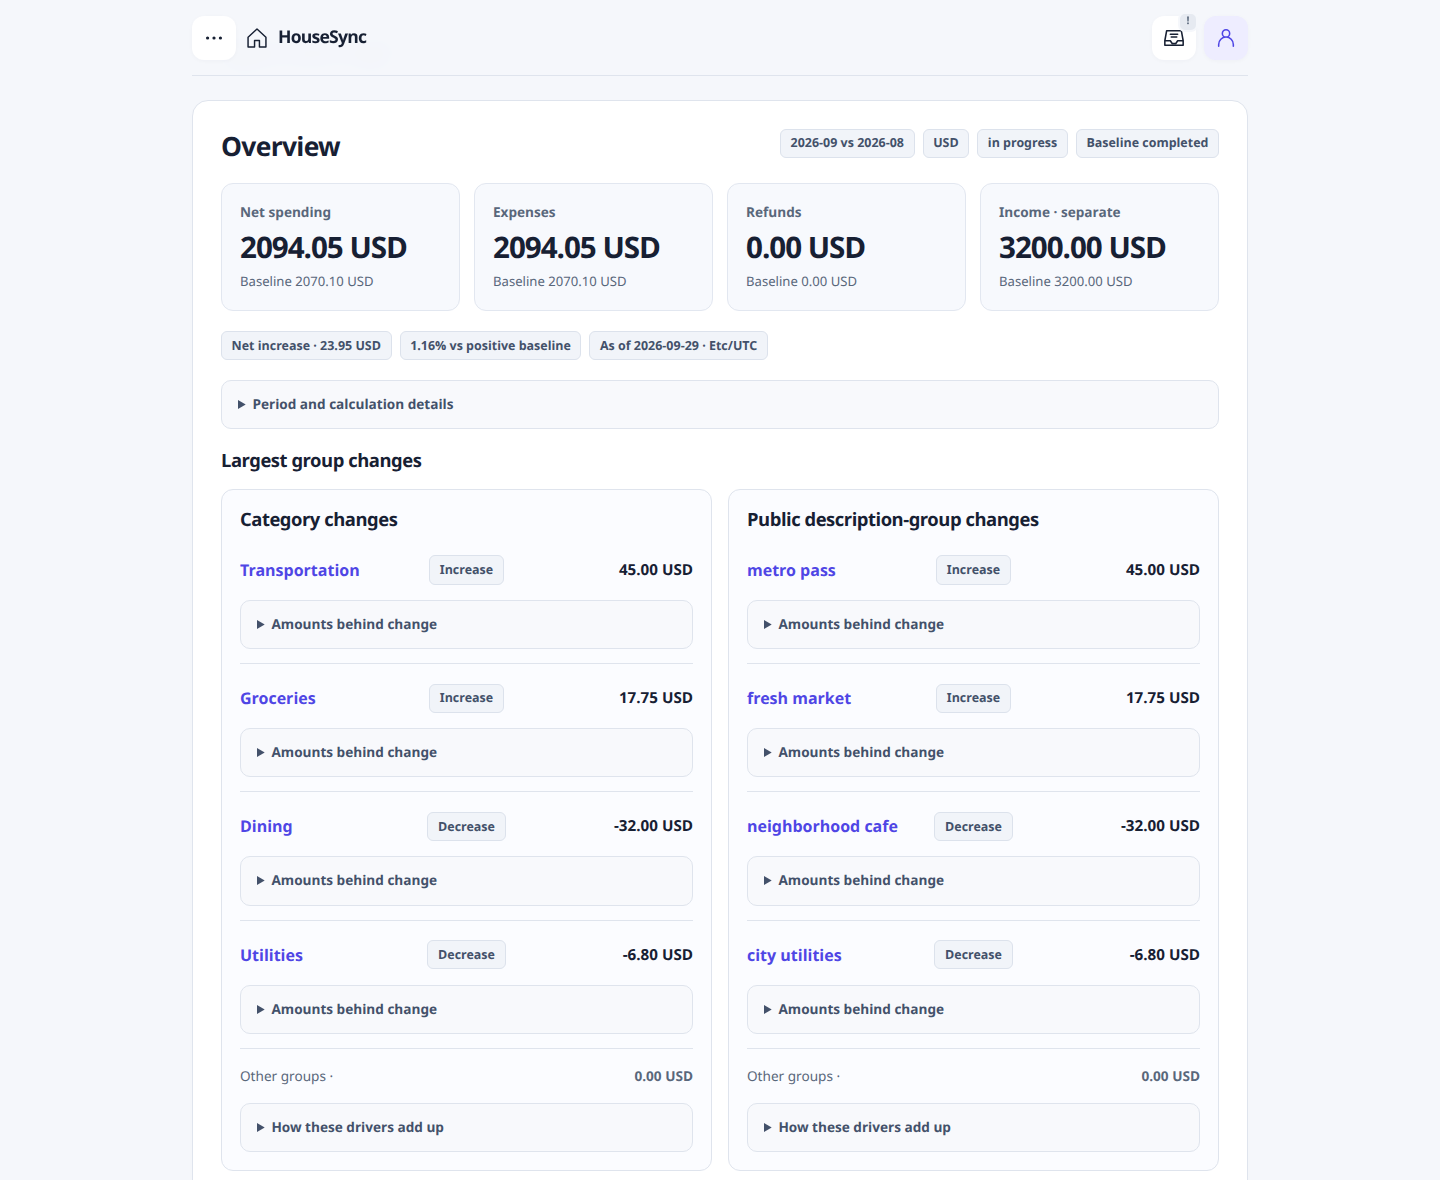
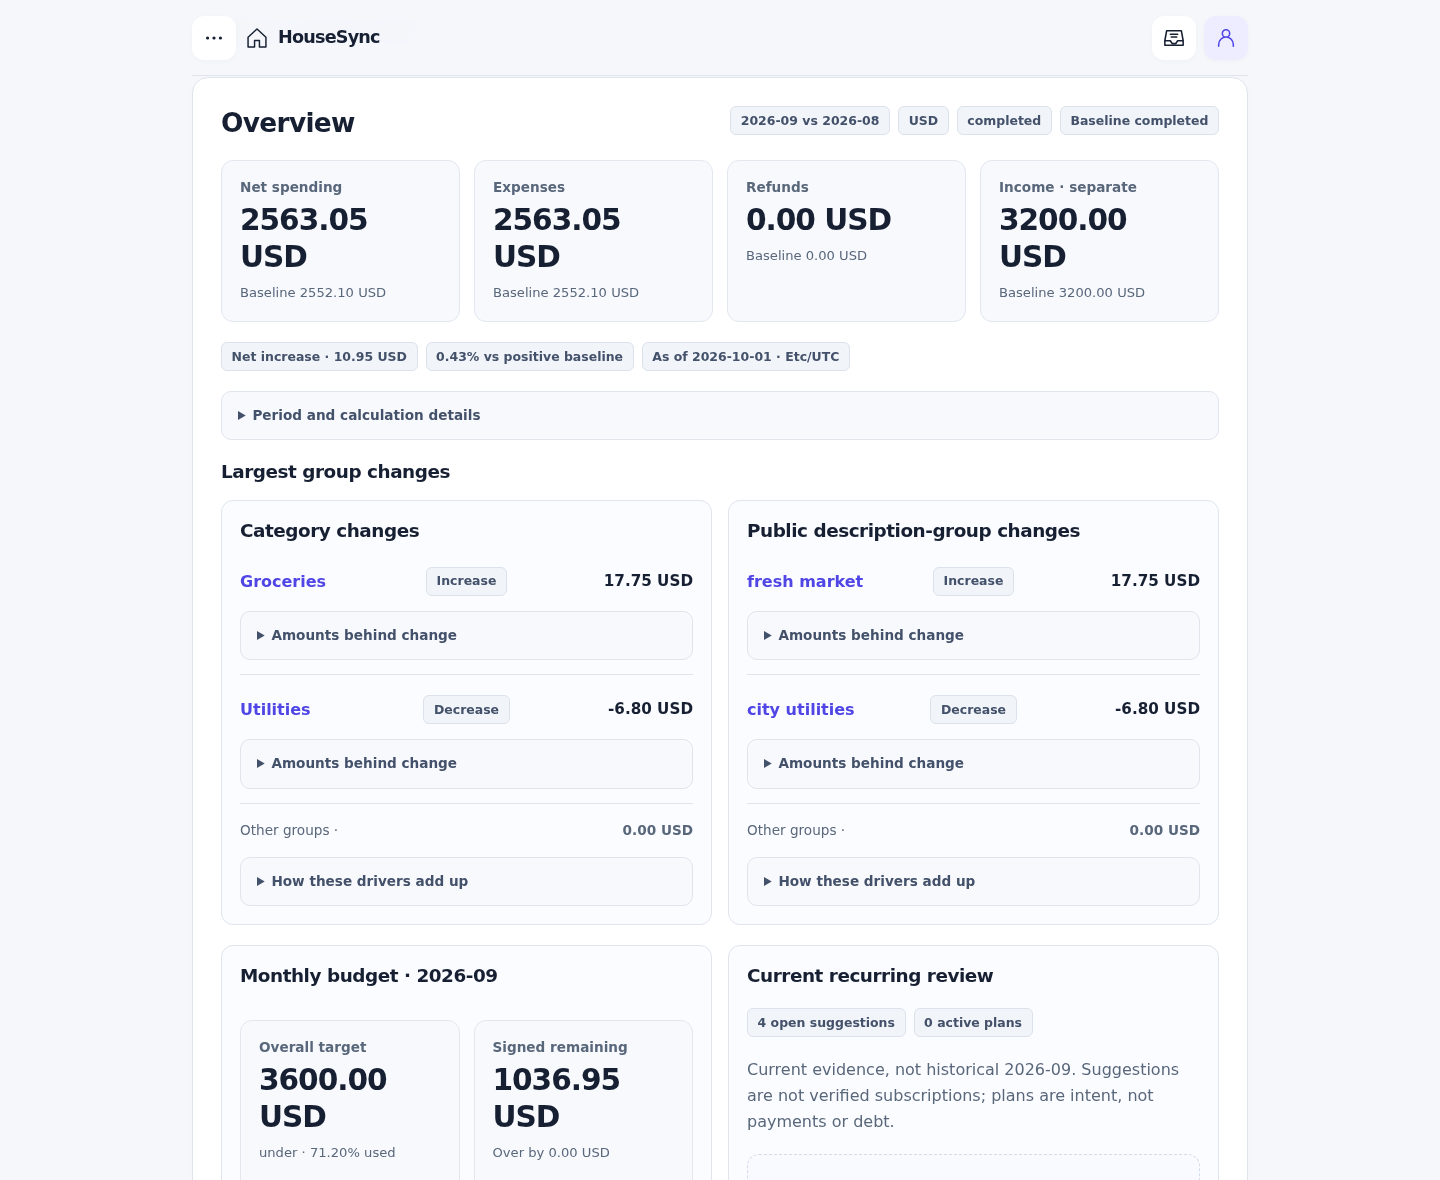
docs: showcase bank linking and the shared ledger
Reframe the README around the shared household ledger, lead with the Plaid Sandbox bank-activity inbox and the mobile household feed, add a collapsed gallery of 14 more captures and a Plaid Sandbox quick start. Rewrite the synthetic walkthrough for the two-member dataset with a linked test bank.

diff --git a/README.md b/README.md
@@ -3,28 +3,73 @@
 [![HouseSync checks](https://github.com/lavinhoque33/HouseSync/actions/workflows/ci.yml/badge.svg)](https://github.com/lavinhoque33/HouseSync/actions/workflows/ci.yml)
 [![License: MIT](https://img.shields.io/badge/license-MIT-blue.svg)](LICENSE)
 
-**Understand shared spending without making every account shared.** HouseSync is a mobile-first household finance application. Members record private financial activity, deliberately disclose selected transactions, split shared expenses exactly, and explore source-linked spending insights. A household owner does not automatically see another member's accounts. HouseSync records external repayments and suggests settlements; it does **not** move money or infer bank balances.
+**A shared household ledger that keeps private money private.** Each member links their own bank accounts through Plaid or records entries by hand. Accounts and transactions stay private to their owner; a member discloses exactly the entries the household should share, and those are split exactly, tracked as per-member balances and settled through recorded repayments. HouseSync keeps the ledger; it never moves money or infers bank balances.
 
-![Insights on desktop: month-over-month overview with category and merchant drivers](docs/images/insights-desktop.png)
+![Bank activity inbox on desktop: history synced from a linked Plaid Sandbox bank waits in the owner's private inbox, each item confirmed or dismissed before it reaches the ledger](docs/images/bank-activity-desktop.png)
 
-<img src="docs/images/transactions-mobile.png" alt="Mobile ledger showing explicit household sharing and a private synthetic expense" width="320" align="right">
+<img src="docs/images/household-feed-mobile.png" alt="Household feed on mobile: one member's shared manual entries and another member's shared bank-sourced entry, allocated and categorized, without account details" width="320" align="right">
 
-The screenshots come from a local instance populated with synthetic records through the normal UI and API; the [walkthrough](docs/development/synthetic-walkthrough.md) reproduces them.
+Above: three months of history synced from a linked test bank into the owner's private inbox, part already confirmed into the ledger and part still awaiting review. Right: the household feed on a phone, where one member's manual entries and the other's bank-sourced entry appear side by side with their allocations.
+
+The screenshots come from a local instance with two synthetic members. One linked Plaid's Sandbox test bank (`First Platypus Bank`) through the real Plaid Link flow and confirmed its generated history; the other recorded manual entries. The [walkthrough](docs/development/synthetic-walkthrough.md) reproduces them.
 
 **Stack:** Java 21 · Spring Boot 4.1 · PostgreSQL 17 · Flyway · React 19 · TypeScript · Vite · Vitest · Testcontainers · Docker Compose.
 
 <br clear="right">
 
+<details>
+<summary><strong>More screenshots</strong> (14): bank linking, review into the ledger, balances and settlement, Insights, mobile</summary>
+
+#### Link a bank and admit accounts
+
+![Plaid Link opened from the Bank connections page, at the institution selection step, with Plaid's Sandbox banner](docs/images/plaid-link-desktop.png)
+
+![Bank connections page: a Sandbox connection with the account list, three accounts admitted and unsupported account types marked not eligible](docs/images/connections-desktop.png)
+
+![Bank activity inbox with a confirm form open: entry type, description and category chosen by the owner before the item is added to the ledger](docs/images/bank-activity-confirm-desktop.png)
+
+#### Private ledger and household feed
+
+![Transactions page showing the owner's private entries sourced from the linked checking and credit card accounts](docs/images/transactions-desktop.png)
+
+![Household feed on desktop: shared entries from both members, with Household, Allocated and category chips; another member's entries show no account details](docs/images/household-feed-desktop.png)
+
+![Accounts page listing three connected accounts marked private, and the form to add a manual account](docs/images/accounts-desktop.png)
+
+#### Balances, settlement and repayments
+
+![Balances page: per-currency member balances derived from allocations and confirmed repayments, and a read-only settlement plan](docs/images/balances-desktop.png)
+
+![Repayments page: the form to assert a payment completed outside HouseSync, a pending record and a confirmed one](docs/images/repayments-desktop.png)
+
+#### Insights
+
+![Insights overview comparing September with August 2026: net spending, expenses, refunds and separate income, with category and description-group drivers and the monthly budget](docs/images/insights-desktop.png)
+
+![Monthly net spending trend over the last twelve months](docs/images/insights-trend-desktop.png)
+
+![Possible recurring expenses detected from shared entries, with occurrence counts, amount ranges and the next expected slot](docs/images/insights-recurring-desktop.png)
+
+#### Mobile (390 CSS px)
+
+<p>
+<img src="docs/images/transactions-mobile.png" alt="Private transactions on mobile, sourced from the linked bank" width="260">
+<img src="docs/images/balances-mobile.png" alt="Member balances on mobile" width="260">
+<img src="docs/images/insights-mobile.png" alt="Insights overview on mobile" width="260">
+</p>
+
+</details>
+
 ## Capabilities
 
 | Area | What it does | Boundary |
 | --- | --- | --- |
-| Identity and households | Server-side sessions and CSRF, operator-issued enrollment, assisted recovery, invitations, membership and role lifecycle with last-owner protection. | No public self-service signup or email-ownership proof. |
+| Connected finance | Plaid Link in the browser, server-side token exchange, owner-chosen account admission, durable cursor-based transaction sync with webhooks, and an owner-private inbox where every synced item is confirmed or dismissed before it enters the ledger. | Off by default; needs your own Plaid credentials. Verified against Plaid Sandbox and a local fake only; live bank-initiated changes are unverified. |
 | Manual finance | Private accounts, exact signed transactions in seven currencies, corrections and voids, linked refunds, transfers. | No automatic currency conversion; amounts in different currencies are never summed. |
 | Shared finance | Explicit per-transaction disclosure, equal or exact unequal allocations, cumulative refund apportionment, per-currency member balances, consented external repayment records, settlement suggestions, period contributions. | Repayments are records of money moved elsewhere; HouseSync never executes payments. |
 | Categorization | Owner-private exact-match rules, provider-category mapping, provenance, review queue; explicit user decisions always win. | Optional AI suggestions are off by default and never write to the ledger. |
 | Insights | Month-over-month comparisons by category and merchant, recurring-expense detection, household bill/subscription plans, monthly budgets, one coherent summary with evidence links. | Suggestions are not verified bills; budgets reserve nothing; no forecasts. |
-| Connected finance | Plaid adapter with account linking, durable cursor-based sync and owner-reviewed admission into the ledger. | Optional, off by default. Fake and sandbox coverage only; live bank-initiated changes are unverified. |
+| Identity and households | Server-side sessions and CSRF, operator-issued enrollment, assisted recovery, invitations, membership and role lifecycle with last-owner protection. | No public self-service signup or email-ownership proof. |
 
 See [known limits](docs/product/known-limits.md) for what is deliberately out of scope or not yet validated.
 
@@ -66,6 +111,20 @@ docker compose --profile app exec -T backend java -jar /app/app.jar \
 ```
 
 Open `http://127.0.0.1:58081/enroll#code=<code>`, register as `person@example.test`, then sign in. Stop with `docker compose --profile app down` (data is retained in the project volume). All ports bind to `127.0.0.1`; the `.env.example` credentials are disposable development defaults.
+
+### Link a bank with Plaid Sandbox
+
+Bank linking is off until you supply your own Plaid credentials; Sandbox is free and uses Plaid's generated test banks. Generate a token-encryption key with `openssl rand -base64 32`, then set in `.env` (Compose reads it literally, so paste the value):
+
+```sh
+CONNECTED_FINANCE_ENABLED=true
+PLAID_ENV=sandbox
+PLAID_CLIENT_ID=<your Plaid client id>
+PLAID_SECRET=<your Plaid Sandbox secret>
+CONNECTED_FINANCE_KEYS=local:<the base64 key>
+```
+
+Recreate the backend with `docker compose --profile app up -d --wait backend`; it fails closed at startup if the credentials or key are invalid. Then, in a household, open **Bank connections → Link a bank**, search for `First Platypus Bank` and sign in with Plaid's Sandbox credentials `user_good` / `pass_good`. Choose which accounts to admit; synced history appears under **Bank activity**, where each item is confirmed into your private ledger or dismissed. With connected finance enabled, the browser loads Plaid Link from `cdn.plaid.com` (it runs in its own iframe and talks to Plaid) and the backend calls `sandbox.plaid.com`; HouseSync contacts no other external service.
 
 For native development (Java 21, Node 22.13+, npm 10.9.2+, Docker, GNU Make): `make doctor`, `make setup`, `make db-up`, then `make backend-dev` and `make web-dev` in separate terminals and open <http://localhost:5173>. See [local setup](docs/development/local-setup.md) and the [operator CLI](docs/architecture/identity-api.md#operator-cli-boundary).
 

diff --git a/docs/development/synthetic-walkthrough.md b/docs/development/synthetic-walkthrough.md
@@ -1,39 +1,57 @@
 # Synthetic walkthrough
 
-The README images are actual Chromium captures of a separate localhost instance. Every identity, household, account, description and amount below is synthetic. No provider was connected and no mock responses or DOM substitutions were used.
+The README images are Chromium captures of a separate localhost Compose instance (`docs/images/`, 1440 CSS px desktop and 390 CSS px mobile, device scale 1). Every identity, household, account and amount is synthetic. The only external service involved was Plaid **Sandbox**, which generates test banks and test transactions; no real bank, no mock responses and no DOM substitutions were used.
 
-1. Follow [local setup](local-setup.md) in a new disposable Compose project; keep integrations disabled. Issue an enrollment grant for `alex@example.test`, register with a new disposable password, and sign in. Registration does not sign in automatically.
-2. Create **Maple House**, then a private **Everyday checking** account (`CHECKING`, `USD`).
-3. Add these transactions using the account. Negative amounts are expenses; the UI takes a positive magnitude and the expense kind. Explicitly choose household sharing for these rows.
+## Setup
+
+1. Follow the README quick start in a new disposable Compose project, then enable connected finance as described under *Link a bank with Plaid Sandbox* (your own Sandbox client id and secret, `PLAID_ENV=sandbox`, a disposable 32-byte key). Keep AI categorization disabled.
+2. Issue enrollment grants for `alex@example.test` and `sam@example.test`; register each with its own disposable password. Registration does not sign in automatically.
+
+## Alex (owner): link the test bank
+
+1. Sign in as Alex and create **Maple House**.
+2. Open **Bank connections → Link a bank**. In Plaid Link choose *Continue without phone number*, search `First Platypus Bank`, pick the plain (non-OAuth) entry and sign in with `user_good` / `pass_good`. Accept the account sharing step and finish without saving a phone number.
+3. On the new connection choose **Choose accounts** and admit exactly three: *Plaid Gold Standard 0% Interest Checking*, *Plaid Silver Standard 0.1% Interest Saving* and *Plaid Diamond 12.5% APR Interest Credit Card*. Loan, investment and cash-management accounts are listed as not eligible.
+4. The first sync runs on admission. **Bank activity** then shows 42 posted items: Plaid's standard Sandbox history for `user_good` (United Airlines, Uber, McDonald's, Starbucks, SparkFun, Tectra Inc, KFC, Madison Bicycle Shop, Touchstone Climbing, interest and credit-card payments) repeated monthly. Sandbox dates are generated relative to the link time, so a reproduction will not show the exact dates in the images.
+5. Confirm every item. Statement descriptions were kept except: `INTRST PYMNT` → income *Savings interest*; `AUTOMATIC PAYMENT - THANK` and `CREDIT CARD 3333 PAYMENT` → transfer *Credit card payment*; `Uber … SF**POOL**` → *Uber Pool*; the positive `United Airlines` entries → income *United Airlines refund*. No category was chosen on confirmation, so the deterministic classifier applied Plaid's personal-finance category where the application mapping is exact (for example McDonald's → Dining with provenance `PROVIDER`) and left the rest uncategorized.
+6. Share the three `KFC` and three `Touchstone Climbing` expenses with the household and allocate each equally between Alex and Sam.
+
+## Sam (member): manual entries
+
+1. As Alex, create an invitation. As Sam, accept it, then add a private **Everyday checking** account (`CHECKING`, `USD`).
+2. Record these transactions, shared with the household and allocated equally between Sam and Alex (negative amounts are expenses; the UI takes a positive magnitude and the expense kind):
 
 | Date | Description | Signed amount (USD) | Category |
 | --- | --- | --- | --- |
+| 2026-07-01 | Maple rent | -1500.00 | HOUSING |
 | 2026-08-01 | Maple rent | -1500.00 | HOUSING |
-| 2026-08-05 | Fresh market | -310.40 | GROCERIES |
-| 2026-08-10 | City utilities | -145.20 | UTILITIES |
-| 2026-08-15 | Neighborhood cafe | -96.50 | DINING |
-| 2026-08-20 | Streambox | -18.00 | SUBSCRIPTIONS |
 | 2026-09-01 | Maple rent | -1500.00 | HOUSING |
+| 2026-07-06 | Fresh market | -284.15 | GROCERIES |
+| 2026-08-05 | Fresh market | -310.40 | GROCERIES |
 | 2026-09-05 | Fresh market | -245.80 | GROCERIES |
-| 2026-09-09 | City utilities | -138.40 | UTILITIES |
-| 2026-09-14 | Neighborhood cafe | -64.50 | DINING |
-| 2026-09-20 | Streambox | -18.00 | SUBSCRIPTIONS |
 | 2026-09-23 | Fresh market | -82.35 | GROCERIES |
-| 2026-09-25 | Metro pass | -45.00 | TRANSPORTATION |
-| 2026-08-28 | Household contribution | 3200.00 | INCOME |
-| 2026-09-28 | Household contribution | 3200.00 | INCOME |
+| 2026-07-10 | City utilities | -141.90 | UTILITIES |
+| 2026-08-10 | City utilities | -145.20 | UTILITIES |
+| 2026-09-09 | City utilities | -138.40 | UTILITIES |
+| 2026-08-20 | Streambox | -18.00 | SUBSCRIPTIONS |
+| 2026-09-20 | Streambox | -18.00 | SUBSCRIPTIONS |
 
-4. Add a **private** expense, **Personal notebook**, `24.99 USD`, dated `2026-09-26`, category `PERSONAL`. It must remain outside household Insights even for its owner.
-5. Open Insights and select September 2026 versus August 2026 in USD. Create an overall September target of `2400.00 USD`, review the disclosure and confirm it. For later calendar dates, explicitly select these historical months; do not expect the default current month to reproduce the images.
+3. Record two shared incomes without allocation, **Household contribution** `3200.00 USD` on 2026-08-28 and 2026-09-28, and one **private** expense, **Personal notebook** `24.99 USD` on 2026-09-26, category `PERSONAL`. The private expense must stay out of household Insights even for its owner.
+
+## Repayments and budgets
+
+1. As Alex, record a repayment of `1500.00 USD` to Sam completed on 2026-08-30; as Sam, confirm it. Record a second repayment of `400.00 USD` dated 2026-09-29 and leave it pending.
+2. As Alex, create September 2026 budget targets: overall `3600.00 USD`, Groceries `350.00 USD`, Dining `600.00 USD`.
+3. On **Insights**, select September 2026 against August 2026 in USD. For later calendar dates select these months explicitly; the default current month will not reproduce the images.
 
 ## Expected exact results
 
-- August shared net spending: **2070.10 USD**.
-- September shared net spending: **2094.05 USD**; increase **23.95 USD**, or **1.16%** against the positive baseline.
-- September income: **3200.00 USD**, displayed separately rather than subtracted from spending.
-- September overall target: **2400.00 USD**; signed remaining **305.95 USD**.
-- The private `24.99 USD` expense appears in the owner’s transaction feed but not these shared totals.
+- Shared net spending: July **2504.55 USD**, August **2552.10 USD**, September **2563.05 USD**; September increase **10.95 USD**, or **0.43%** against the positive baseline. Income of **3200.00 USD** is shown separately.
+- September overall target **3600.00 USD**; signed remaining **1036.95 USD** (71.20% used).
+- Member balances in USD: Alex owes Sam **574.36**; the settlement plan suggests one payment Alex → Sam of 574.36. The pending repayment changes nothing until confirmed.
+- Recurring suggestions include `kfc`, `touchstone climbing`, `maple rent` and `city utilities` as monthly, with three occurrences each.
+- The private `24.99 USD` expense appears only in Sam's own feed, never in the household feed, balances or Insights.
 
-The screenshot’s reporting clock reflects the capture date; target progress is based on the selected full calendar month, not a forecast. The unavailable bank-inbox badge reflects the disabled optional integration, not a fabricated bank connection. Mobile images use a 390-CSS-pixel Chromium viewport; they are not proof of real-device, keyboard, screen-reader or production accessibility acceptance.
+Member balances identify members by id, not email. The bank-activity desktop image was captured after the July and August items were confirmed and before the September ones, so it shows both *In the ledger* and *Not reviewed* states with 14 items awaiting review. Mobile images use a 390-CSS-pixel Chromium viewport; they are not proof of real-device, keyboard, screen-reader or production accessibility acceptance.
 
-The repository includes only the screenshots and this recipe—not login credentials, enrollment codes, session state or a seeded database. Use normal API/UI authorization throughout; never insert identity or financial rows directly to bypass it.
+The repository includes only the screenshots and this recipe, not Plaid credentials, encryption keys, login credentials, enrollment codes, session state or a seeded database. Use normal API/UI authorization throughout; never insert identity or financial rows directly to bypass it.

diff --git a/THIRD_PARTY_NOTICES.md b/THIRD_PARTY_NOTICES.md
@@ -16,4 +16,4 @@ Dependency caches, `node_modules`, application JARs, container images and built 
 
 ## Images
 
-The screenshots under `docs/images/` were captured from this application using synthetic local data. They do not contain real household records or third-party stock imagery.
+The screenshots under `docs/images/` were captured from this application using synthetic local data and Plaid's Sandbox test bank. They do not contain real household records or third-party stock imagery. `plaid-link-desktop.png` shows Plaid Link, Plaid's own interface, including the Plaid logo and institution logos it displays; those marks belong to their respective owners and are shown only to illustrate the integration.
